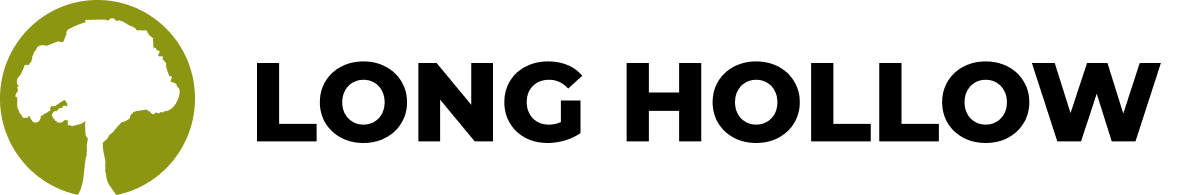
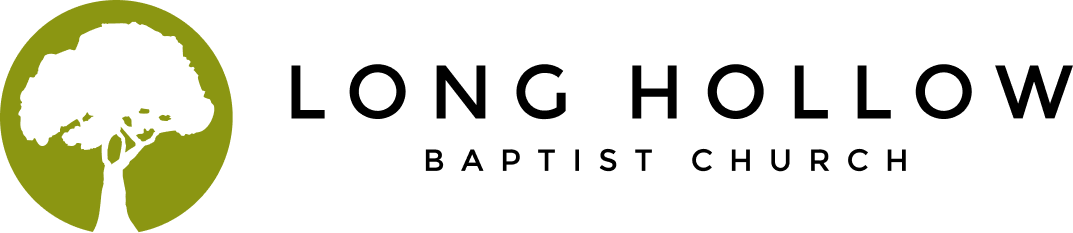
new wordmark

Changed region(s): [[0.0, 0.0, 1.0, 1.0]]

diff --git a/apolloschurchapp/src/theme/theme.js b/apolloschurchapp/src/theme/theme.js
@@ -1,5 +1,5 @@
 // import styleOverrides from './styleOverrides';
-// import propOverrides from './propOverrides';
+import propOverrides from './propOverrides';
 
 /* Add your custom theme definitions below. Anything that is supported in UI-Kit Theme can be
  overridden and/or customized here! */
@@ -57,9 +57,9 @@ const colors = {
  * }
  * ```
  */
-// const overrides = {
-//   ...styleOverrides,
-//   ...propOverrides,
-// };
+const overrides = {
+  // ...styleOverrides,
+  ...propOverrides,
+};
 
-export default { colors };
+export default { colors, overrides };

diff --git a/apolloschurchapp/src/theme/propOverrides.js b/apolloschurchapp/src/theme/propOverrides.js
@@ -1,2 +1,13 @@
 /* Export your custom prop overrides here. */
-export {};
+
+export default {
+  // 'ui-kit.HighlightCard': {
+  // LabelComponent: () => () => null,
+  // },
+  // 'ui-kit.DefaultCard': {
+  // LabelComponent: () => () => null,
+  // },
+  // 'ui-kit.FeaturedCard': {
+  // LabelComponent: () => () => null,
+  // },
+};
